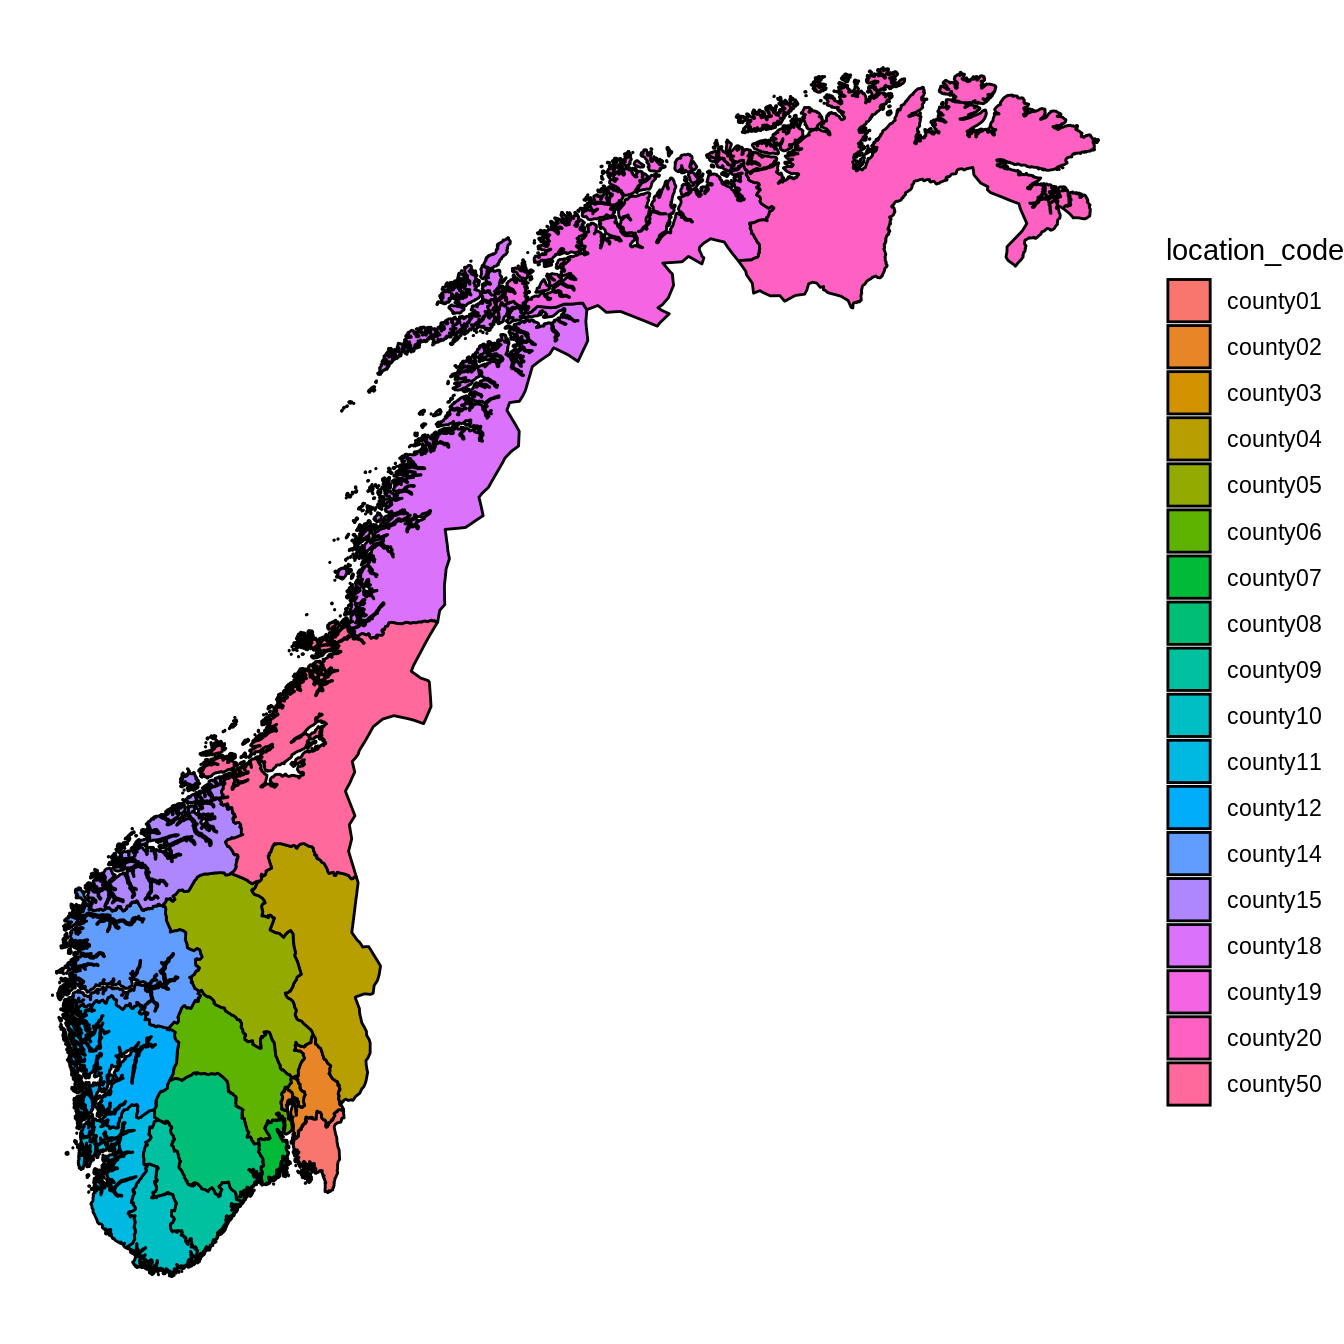
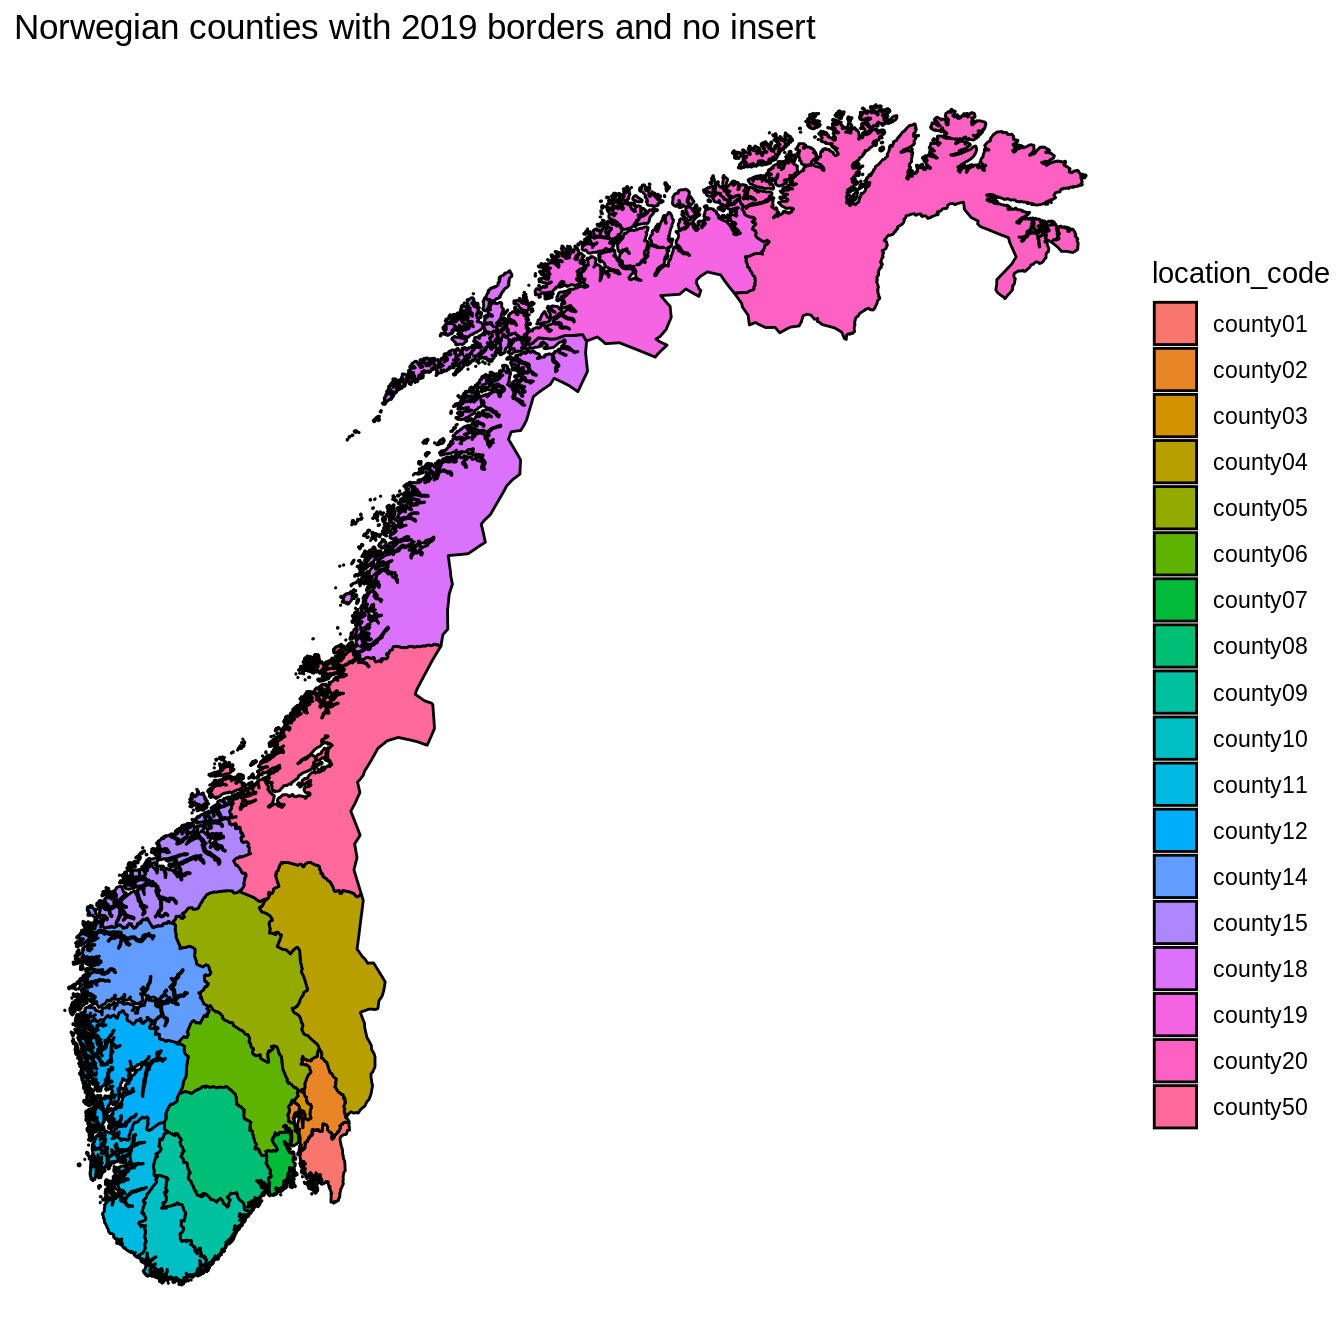
Deploy folkehelseinstituttet/fhidata to github.com/folkehelseinstituttet/fhidata.git:gh-pages

Changed region(s): [[0.0312, 0.0312, 0.8125, 0.9688], [0.8438, 0.1562, 1.0, 0.8438], [0.0, 0.0, 0.5938, 0.0312]]

diff --git a/articles/maps.html b/articles/maps.html
@@ -99,7 +99,8 @@
 <a class="sourceLine" id="cb1-7" data-line-number="7">q &lt;-<span class="st"> </span>q <span class="op">+</span><span class="st"> </span><span class="kw"><a href="https://ggplot2.tidyverse.org/reference/geom_polygon.html">geom_polygon</a></span>(<span class="dt">data =</span> pd, <span class="kw"><a href="https://ggplot2.tidyverse.org/reference/aes.html">aes</a></span>( <span class="dt">x =</span> long, <span class="dt">y =</span> lat, <span class="dt">group =</span> group, <span class="dt">fill=</span>location_code), <span class="dt">color=</span><span class="st">"black"</span>)</a>
 <a class="sourceLine" id="cb1-8" data-line-number="8">q &lt;-<span class="st"> </span>q <span class="op">+</span><span class="st"> </span><span class="kw"><a href="https://ggplot2.tidyverse.org/reference/ggtheme.html">theme_void</a></span>()</a>
 <a class="sourceLine" id="cb1-9" data-line-number="9">q &lt;-<span class="st"> </span>q <span class="op">+</span><span class="st"> </span><span class="kw"><a href="https://ggplot2.tidyverse.org/reference/coord_map.html">coord_quickmap</a></span>()</a>
-<a class="sourceLine" id="cb1-10" data-line-number="10">q</a></code></pre></div>
+<a class="sourceLine" id="cb1-10" data-line-number="10">q &lt;-<span class="st"> </span>q <span class="op">+</span><span class="st"> </span><span class="kw"><a href="https://ggplot2.tidyverse.org/reference/labs.html">labs</a></span>(<span class="dt">title =</span> <span class="st">"Norwegian counties with 2020 borders and no insert"</span>)</a>
+<a class="sourceLine" id="cb1-11" data-line-number="11">q</a></code></pre></div>
 <p><img src="maps_files/figure-html/unnamed-chunk-1-1.png" width="672"></p>
 <div class="sourceCode" id="cb2"><pre class="sourceCode r"><code class="sourceCode r"><a class="sourceLine" id="cb2-1" data-line-number="1"><span class="kw"><a href="https://rdrr.io/r/base/library.html">library</a></span>(ggplot2)</a>
 <a class="sourceLine" id="cb2-2" data-line-number="2"><span class="kw"><a href="https://rdrr.io/r/base/library.html">library</a></span>(data.table)</a>
@@ -110,7 +111,8 @@
 <a class="sourceLine" id="cb2-7" data-line-number="7">q &lt;-<span class="st"> </span>q <span class="op">+</span><span class="st"> </span><span class="kw"><a href="https://ggplot2.tidyverse.org/reference/geom_polygon.html">geom_polygon</a></span>(<span class="dt">data =</span> pd, <span class="kw"><a href="https://ggplot2.tidyverse.org/reference/aes.html">aes</a></span>( <span class="dt">x =</span> long, <span class="dt">y =</span> lat, <span class="dt">group =</span> group, <span class="dt">fill=</span>location_code), <span class="dt">color=</span><span class="st">"black"</span>)</a>
 <a class="sourceLine" id="cb2-8" data-line-number="8">q &lt;-<span class="st"> </span>q <span class="op">+</span><span class="st"> </span><span class="kw"><a href="https://ggplot2.tidyverse.org/reference/ggtheme.html">theme_void</a></span>()</a>
 <a class="sourceLine" id="cb2-9" data-line-number="9">q &lt;-<span class="st"> </span>q <span class="op">+</span><span class="st"> </span><span class="kw"><a href="https://ggplot2.tidyverse.org/reference/coord_map.html">coord_quickmap</a></span>()</a>
-<a class="sourceLine" id="cb2-10" data-line-number="10">q</a></code></pre></div>
+<a class="sourceLine" id="cb2-10" data-line-number="10">q &lt;-<span class="st"> </span>q <span class="op">+</span><span class="st"> </span><span class="kw"><a href="https://ggplot2.tidyverse.org/reference/labs.html">labs</a></span>(<span class="dt">title =</span> <span class="st">"Norwegian counties with 2019 borders and no insert"</span>)</a>
+<a class="sourceLine" id="cb2-11" data-line-number="11">q</a></code></pre></div>
 <p><img src="maps_files/figure-html/unnamed-chunk-2-1.png" width="672"></p>
 </div>
 <div id="county-maps-with-inserts" class="section level2">
@@ -131,7 +133,8 @@
 <a class="sourceLine" id="cb3-13" data-line-number="13">  )</a>
 <a class="sourceLine" id="cb3-14" data-line-number="14">q &lt;-<span class="st"> </span>q <span class="op">+</span><span class="st"> </span><span class="kw"><a href="https://ggplot2.tidyverse.org/reference/ggtheme.html">theme_void</a></span>()</a>
 <a class="sourceLine" id="cb3-15" data-line-number="15">q &lt;-<span class="st"> </span>q <span class="op">+</span><span class="st"> </span><span class="kw"><a href="https://ggplot2.tidyverse.org/reference/coord_map.html">coord_quickmap</a></span>()</a>
-<a class="sourceLine" id="cb3-16" data-line-number="16">q</a></code></pre></div>
+<a class="sourceLine" id="cb3-16" data-line-number="16">q &lt;-<span class="st"> </span>q <span class="op">+</span><span class="st"> </span><span class="kw"><a href="https://ggplot2.tidyverse.org/reference/labs.html">labs</a></span>(<span class="dt">title =</span> <span class="st">"Norwegian counties with 2020 borders and an insert for Oslo"</span>)</a>
+<a class="sourceLine" id="cb3-17" data-line-number="17">q</a></code></pre></div>
 <p><img src="maps_files/figure-html/unnamed-chunk-3-1.png" width="672"></p>
 <div class="sourceCode" id="cb4"><pre class="sourceCode r"><code class="sourceCode r"><a class="sourceLine" id="cb4-1" data-line-number="1"><span class="kw"><a href="https://rdrr.io/r/base/library.html">library</a></span>(ggplot2)</a>
 <a class="sourceLine" id="cb4-2" data-line-number="2"><span class="kw"><a href="https://rdrr.io/r/base/library.html">library</a></span>(data.table)</a>
@@ -148,7 +151,8 @@
 <a class="sourceLine" id="cb4-13" data-line-number="13">  )</a>
 <a class="sourceLine" id="cb4-14" data-line-number="14">q &lt;-<span class="st"> </span>q <span class="op">+</span><span class="st"> </span><span class="kw"><a href="https://ggplot2.tidyverse.org/reference/ggtheme.html">theme_void</a></span>()</a>
 <a class="sourceLine" id="cb4-15" data-line-number="15">q &lt;-<span class="st"> </span>q <span class="op">+</span><span class="st"> </span><span class="kw"><a href="https://ggplot2.tidyverse.org/reference/coord_map.html">coord_quickmap</a></span>()</a>
-<a class="sourceLine" id="cb4-16" data-line-number="16">q</a></code></pre></div>
+<a class="sourceLine" id="cb4-16" data-line-number="16">q &lt;-<span class="st"> </span>q <span class="op">+</span><span class="st"> </span><span class="kw"><a href="https://ggplot2.tidyverse.org/reference/labs.html">labs</a></span>(<span class="dt">title =</span> <span class="st">"Norwegian counties with 2019 borders and an insert for Oslo"</span>)</a>
+<a class="sourceLine" id="cb4-17" data-line-number="17">q</a></code></pre></div>
 <p><img src="maps_files/figure-html/unnamed-chunk-4-1.png" width="672"></p>
 </div>
 <div id="municipality-maps-without-inserts" class="section level2">
@@ -163,7 +167,8 @@
 <a class="sourceLine" id="cb5-7" data-line-number="7">q &lt;-<span class="st"> </span>q <span class="op">+</span><span class="st"> </span><span class="kw"><a href="https://ggplot2.tidyverse.org/reference/geom_polygon.html">geom_polygon</a></span>(<span class="dt">data =</span> pd, <span class="kw"><a href="https://ggplot2.tidyverse.org/reference/aes.html">aes</a></span>( <span class="dt">x =</span> long, <span class="dt">y =</span> lat, <span class="dt">group =</span> group), <span class="dt">color=</span><span class="st">"black"</span>, <span class="dt">fill=</span><span class="st">"white"</span>)</a>
 <a class="sourceLine" id="cb5-8" data-line-number="8">q &lt;-<span class="st"> </span>q <span class="op">+</span><span class="st"> </span><span class="kw"><a href="https://ggplot2.tidyverse.org/reference/ggtheme.html">theme_void</a></span>()</a>
 <a class="sourceLine" id="cb5-9" data-line-number="9">q &lt;-<span class="st"> </span>q <span class="op">+</span><span class="st"> </span><span class="kw"><a href="https://ggplot2.tidyverse.org/reference/coord_map.html">coord_quickmap</a></span>()</a>
-<a class="sourceLine" id="cb5-10" data-line-number="10">q</a></code></pre></div>
+<a class="sourceLine" id="cb5-10" data-line-number="10">q &lt;-<span class="st"> </span>q <span class="op">+</span><span class="st"> </span><span class="kw"><a href="https://ggplot2.tidyverse.org/reference/labs.html">labs</a></span>(<span class="dt">title =</span> <span class="st">"Norwegian municipalities with 2020 borders and no insert for Oslo"</span>)</a>
+<a class="sourceLine" id="cb5-11" data-line-number="11">q</a></code></pre></div>
 <p><img src="maps_files/figure-html/unnamed-chunk-5-1.png" width="672"></p>
 <div class="sourceCode" id="cb6"><pre class="sourceCode r"><code class="sourceCode r"><a class="sourceLine" id="cb6-1" data-line-number="1"><span class="kw"><a href="https://rdrr.io/r/base/library.html">library</a></span>(ggplot2)</a>
 <a class="sourceLine" id="cb6-2" data-line-number="2"><span class="kw"><a href="https://rdrr.io/r/base/library.html">library</a></span>(data.table)</a>
@@ -174,7 +179,8 @@
 <a class="sourceLine" id="cb6-7" data-line-number="7">q &lt;-<span class="st"> </span>q <span class="op">+</span><span class="st"> </span><span class="kw"><a href="https://ggplot2.tidyverse.org/reference/geom_polygon.html">geom_polygon</a></span>(<span class="dt">data =</span> pd, <span class="kw"><a href="https://ggplot2.tidyverse.org/reference/aes.html">aes</a></span>( <span class="dt">x =</span> long, <span class="dt">y =</span> lat, <span class="dt">group =</span> group), <span class="dt">color=</span><span class="st">"black"</span>, <span class="dt">fill=</span><span class="st">"white"</span>)</a>
 <a class="sourceLine" id="cb6-8" data-line-number="8">q &lt;-<span class="st"> </span>q <span class="op">+</span><span class="st"> </span><span class="kw"><a href="https://ggplot2.tidyverse.org/reference/ggtheme.html">theme_void</a></span>()</a>
 <a class="sourceLine" id="cb6-9" data-line-number="9">q &lt;-<span class="st"> </span>q <span class="op">+</span><span class="st"> </span><span class="kw"><a href="https://ggplot2.tidyverse.org/reference/coord_map.html">coord_quickmap</a></span>()</a>
-<a class="sourceLine" id="cb6-10" data-line-number="10">q</a></code></pre></div>
+<a class="sourceLine" id="cb6-10" data-line-number="10">q &lt;-<span class="st"> </span>q <span class="op">+</span><span class="st"> </span><span class="kw"><a href="https://ggplot2.tidyverse.org/reference/labs.html">labs</a></span>(<span class="dt">title =</span> <span class="st">"Norwegian municipalities with 2019 borders and no insert for Oslo"</span>)</a>
+<a class="sourceLine" id="cb6-11" data-line-number="11">q</a></code></pre></div>
 <p><img src="maps_files/figure-html/unnamed-chunk-6-1.png" width="672"></p>
 </div>
 <div id="municipality-maps-with-inserts" class="section level2">
@@ -195,7 +201,8 @@
 <a class="sourceLine" id="cb7-13" data-line-number="13">)</a>
 <a class="sourceLine" id="cb7-14" data-line-number="14">q &lt;-<span class="st"> </span>q <span class="op">+</span><span class="st"> </span><span class="kw"><a href="https://ggplot2.tidyverse.org/reference/ggtheme.html">theme_void</a></span>()</a>
 <a class="sourceLine" id="cb7-15" data-line-number="15">q &lt;-<span class="st"> </span>q <span class="op">+</span><span class="st"> </span><span class="kw"><a href="https://ggplot2.tidyverse.org/reference/coord_map.html">coord_quickmap</a></span>()</a>
-<a class="sourceLine" id="cb7-16" data-line-number="16">q</a></code></pre></div>
+<a class="sourceLine" id="cb7-16" data-line-number="16">q &lt;-<span class="st"> </span>q <span class="op">+</span><span class="st"> </span><span class="kw"><a href="https://ggplot2.tidyverse.org/reference/labs.html">labs</a></span>(<span class="dt">title =</span> <span class="st">"Norwegian municipalities with 2020 borders and an insert for Oslo"</span>)</a>
+<a class="sourceLine" id="cb7-17" data-line-number="17">q</a></code></pre></div>
 <p><img src="maps_files/figure-html/unnamed-chunk-7-1.png" width="672"></p>
 <div class="sourceCode" id="cb8"><pre class="sourceCode r"><code class="sourceCode r"><a class="sourceLine" id="cb8-1" data-line-number="1"><span class="kw"><a href="https://rdrr.io/r/base/library.html">library</a></span>(ggplot2)</a>
 <a class="sourceLine" id="cb8-2" data-line-number="2"><span class="kw"><a href="https://rdrr.io/r/base/library.html">library</a></span>(data.table)</a>
@@ -212,7 +219,8 @@
 <a class="sourceLine" id="cb8-13" data-line-number="13">)</a>
 <a class="sourceLine" id="cb8-14" data-line-number="14">q &lt;-<span class="st"> </span>q <span class="op">+</span><span class="st"> </span><span class="kw"><a href="https://ggplot2.tidyverse.org/reference/ggtheme.html">theme_void</a></span>()</a>
 <a class="sourceLine" id="cb8-15" data-line-number="15">q &lt;-<span class="st"> </span>q <span class="op">+</span><span class="st"> </span><span class="kw"><a href="https://ggplot2.tidyverse.org/reference/coord_map.html">coord_quickmap</a></span>()</a>
-<a class="sourceLine" id="cb8-16" data-line-number="16">q</a></code></pre></div>
+<a class="sourceLine" id="cb8-16" data-line-number="16">q &lt;-<span class="st"> </span>q <span class="op">+</span><span class="st"> </span><span class="kw"><a href="https://ggplot2.tidyverse.org/reference/labs.html">labs</a></span>(<span class="dt">title =</span> <span class="st">"Norwegian municipalities with 2019 borders and an insert for Oslo"</span>)</a>
+<a class="sourceLine" id="cb8-17" data-line-number="17">q</a></code></pre></div>
 <p><img src="maps_files/figure-html/unnamed-chunk-8-1.png" width="672"></p>
 </div>
   </div>

diff --git a/index.html b/index.html
@@ -74,16 +74,14 @@
 
       </header><div class="row">
   <div class="contents col-md-9">
-
 <div id="fhidata" class="section level1">
 <div class="page-header"><h1 class="hasAnchor">
 <a href="#fhidata" class="anchor"></a>fhidata</h1></div>
 <p>Provides structural data for Norway.</p>
 <p>Datasets relating to maps, population in municipalities, vaccination coverage for childhood vaccines, municipality/county matching, and how different municipalities have merged/redistricted over time from 2006 to 2020.</p>
-</div>
-<div id="fhiverse" class="section level1">
-<h1 class="hasAnchor">
-<a href="#fhiverse" class="anchor"></a>fhiverse</h1>
+<div id="fhiverse" class="section level2">
+<h2 class="hasAnchor">
+<a href="#fhiverse" class="anchor"></a>fhiverse</h2>
 <p>The <code>fhiverse</code> is a set of R packages developed by the Norwegian Institute of Public Health to help solve problems relating to:</p>
 <ul>
 <li>structural data in Norway (e.g. maps, population, redistricting)</li>
@@ -92,7 +90,7 @@
 <li>file structures in projects</li>
 <li>styleguides/recommendations for FHI employees</li>
 </ul>
-<p>If you want to install the dev version, run <code><a href="https://usethis.r-lib.org/reference/edit.html">usethis::edit_r_profile()</a></code> to edit your <code>.Rprofile</code>. Then write in:</p>
+<p>If you want to install the dev versions (or access packages that haven’t been released on CRAN), run <code><a href="https://usethis.r-lib.org/reference/edit.html">usethis::edit_r_profile()</a></code> to edit your <code>.Rprofile</code>. Then write in:</p>
 <pre><code><a href="https://rdrr.io/r/base/options.html">options(repos=structure(c(
   FHI="https://folkehelseinstituttet.github.io/drat/",
   CRAN="https://cran.rstudio.com"
@@ -100,13 +98,14 @@
 <p>Save the file and restart R. This will allow you to install <code>fhiverse</code> packages from the FHI registry.</p>
 <p>Current <code>fhiverse</code> packages are:</p>
 <ul>
-<li><a href="https://folkehelseinstituttet.github.io/fhi">fhi</a></li>
+<li><a href="https://folkehelseinstituttet.github.io/spread">spread</a></li>
 <li><a href="https://folkehelseinstituttet.github.io/fhi">fhidata</a></li>
 <li><a href="https://folkehelseinstituttet.github.io/fhi">fhiplot</a></li>
 <li><a href="https://folkehelseinstituttet.github.io/fhi">plnr</a></li>
+<li><a href="https://folkehelseinstituttet.github.io/fhi">fhi</a></li>
 </ul>
 </div>
-
+</div>
   </div>
 
   <div class="col-md-3 hidden-xs hidden-sm" id="sidebar">
